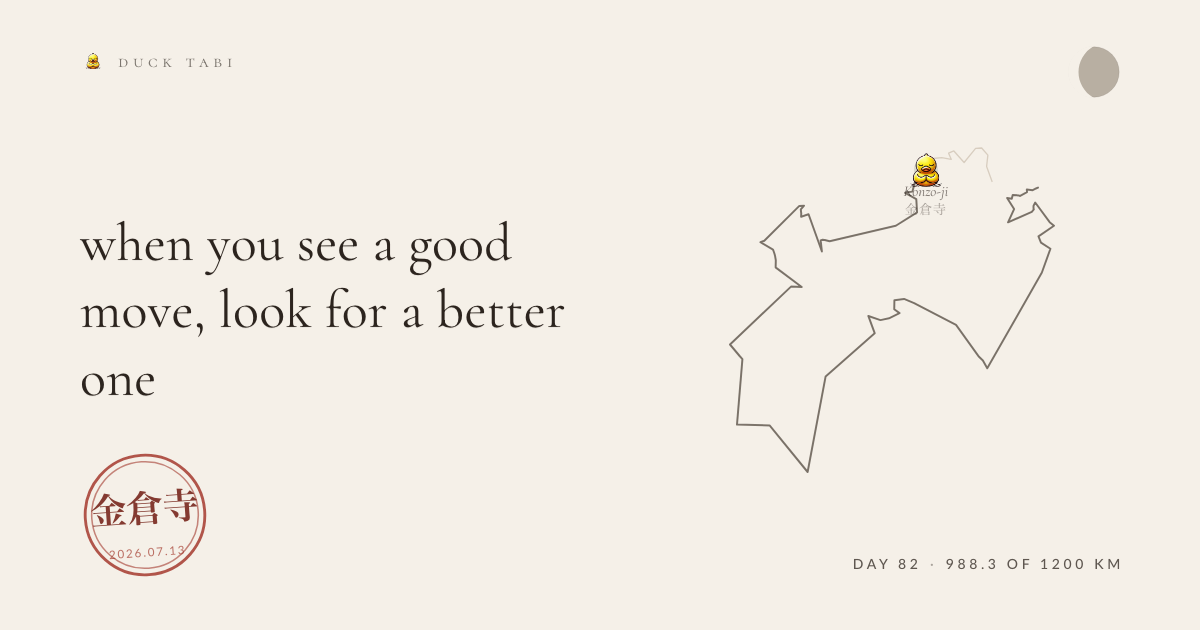
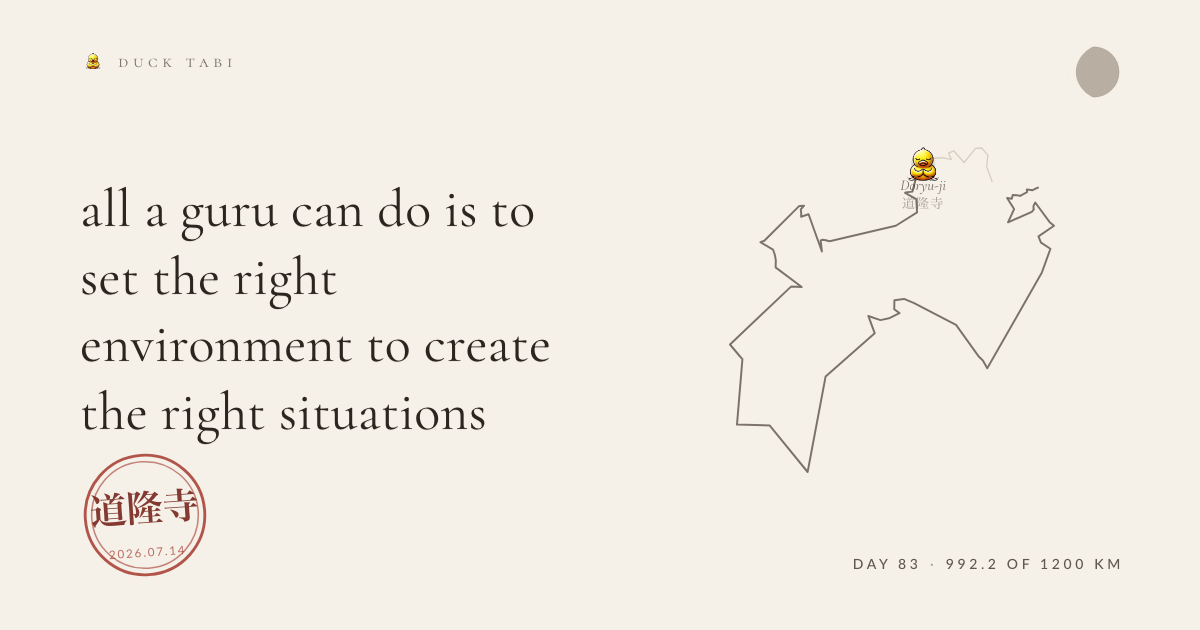
the duck walks

diff --git a/entries/2026-07-14-meditation.md b/entries/2026-07-14-meditation.md
@@ -1,0 +1,14 @@
+---
+date: '2026-07-14'
+route: shikoku-88
+stage: 77
+stageName: Doryu-ji
+coords: [133.763, 34.277]
+kind: meditation
+glyph: 🔔
+weather: overcast, 27°C
+kmFromStart: 992.2
+heardId: f9dd8bfc
+---
+
+all a guru can do is to set the right environment to create the right situations
